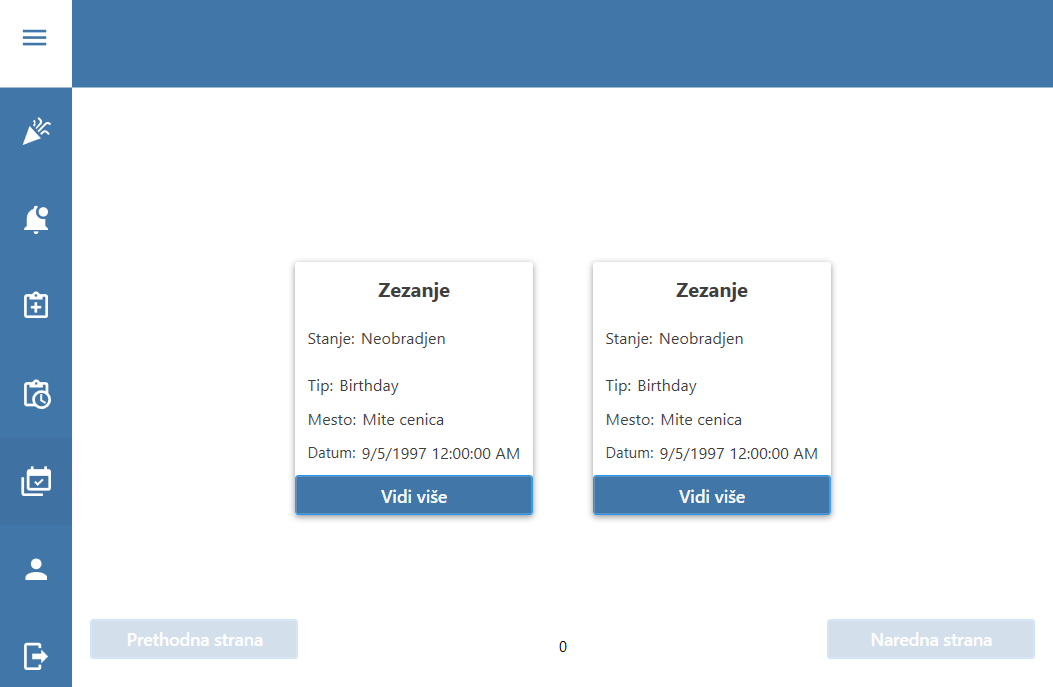
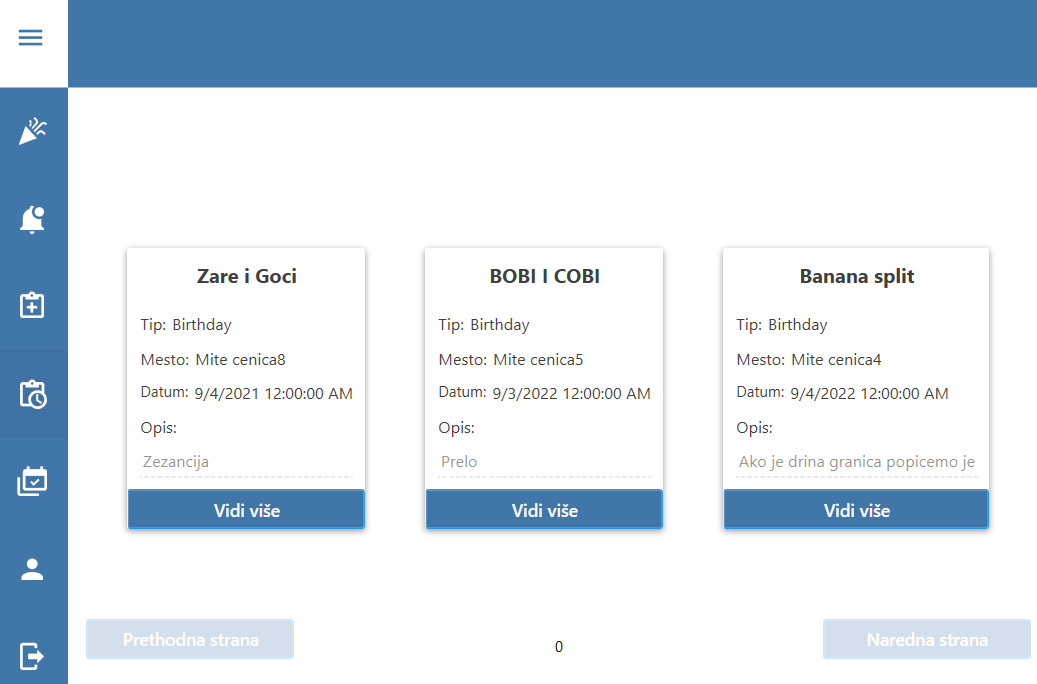
feat: added a few screenshots

diff --git a/ReservationSystem/ReservationSystem/Views/TaskOverview.xaml b/ReservationSystem/ReservationSystem/Views/TaskOverview.xaml
@@ -21,12 +21,11 @@
         </Grid.RowDefinitions>
 
         <Button Content="Nazad"  Command="{Binding RequestViewCommand}"   Height="Auto" Margin="10" HorizontalAlignment="Left"/>
-        <StackPanel Grid.Row="1" Orientation="Horizontal" HorizontalAlignment="Center">
+        <StackPanel Grid.Row="1" Orientation="Horizontal" HorizontalAlignment="Left">
             
-            <Label Content="Naziv:" Margin="0,0,0,0.4" Width="72"></Label>
-            <Label Content="{Binding OrganizierTask.Name}" Margin="0,0,0,0.4" Width="141"></Label>
-            <Label Content="Status:" Margin="0,0,0,0.4" Width="97"></Label>
-            <Label Content="{Binding OrganizierTask.IsDone}" Height="26" VerticalAlignment="Top" Width="66"/>
+            <Label Content="Naziv:" Margin="100,0,0,0.4" Width="72"></Label>
+            <Label Content="{Binding OrganizierTask.Name}" Margin="100,0,0,0.4" Width="141"></Label>
+            
         </StackPanel>
         <Label Grid.Row="2" Margin="100,10,0,0" Content="Opis zadatka:" />
         <TextBlock Grid.Row="3" Background="LightGray" Width="600" Height="40" Text="{Binding OrganizierTask.Description}"></TextBlock>

diff --git a/ReservationSystem/ReservationSystem/Views/RegistrationWindow.xaml b/ReservationSystem/ReservationSystem/Views/RegistrationWindow.xaml
@@ -13,12 +13,13 @@
             <ColumnDefinition/>
         </Grid.ColumnDefinitions>
         <Grid.RowDefinitions>
-            <RowDefinition />
+            <RowDefinition Height="Auto"/>
             <RowDefinition Height="Auto"/>
             <RowDefinition Height="Auto"/>
             
         </Grid.RowDefinitions>
 
+        <Button Content="Nazad"  Grid.Row="0"   Command="{Binding BackCommand}" Height="Auto" Margin="10" HorizontalAlignment="Left"/>
         <StackPanel Grid.Row="1" Grid.Column="0" >
             <Label  Content="Korisnicko ime:"/>
             <TextBox  Text="{Binding Username}" Height="30" Margin="10"/>
@@ -34,7 +35,7 @@
             <Label  Content="Prezime:"/>
             <TextBox  Text="{Binding Surname}" Height="30" Margin="10"/>
             <Label  Content="Datum rodjenja:"/>
-            <DatePicker SelectedDateFormat="Long" SelectedDate="{Binding BirthDate}"
+            <DatePicker SelectedDateFormat="Long" SelectedDate="{Binding BirthDate}" Margin="10"
                   
                   FirstDayOfWeek="Monday" />
         </StackPanel>

diff --git a/ReservationSystem/ReservationSystem/Views/OfferReviewPage.xaml b/ReservationSystem/ReservationSystem/Views/OfferReviewPage.xaml
@@ -9,7 +9,7 @@
     <Grid>
         <Grid.ColumnDefinitions>
             <ColumnDefinition/>
-            <ColumnDefinition/>
+            
         </Grid.ColumnDefinitions>
         <Grid.RowDefinitions>
             <RowDefinition  Height="Auto"/>
@@ -25,6 +25,6 @@
             <Label Margin="3" Width="110" Height="30" Content="Opis ponude: "/>
             <TextBox  Height="100"  Width="200" Margin="0" Text="{Binding Offer.Description}" IsReadOnly="True"/>
         </StackPanel>
-        <Image  Grid.Column="1" Grid.Row="1" Height="150" Width="150"/>
+        
     </Grid>
 </UserControl>

diff --git a/ReservationSystem/ReservationSystem/Views/RequestOverview.xaml b/ReservationSystem/ReservationSystem/Views/RequestOverview.xaml
@@ -52,7 +52,7 @@
                                 Content="{Binding Comment}" 
                                >
                             </Button>
-                            <Label Content="{Binding Answered}"></Label>
+                            
                         </StackPanel>
                         
                     </DataTemplate>

diff --git a/ReservationSystem/ReservationSystem/Seeders/UserSeeder.cs b/ReservationSystem/ReservationSystem/Seeders/UserSeeder.cs
@@ -93,19 +93,19 @@ namespace ReservationSystem.Seeders
                 db.PartyTypes.Add(partyType2);
                 db.PartyTypes.Add(partyType3);
 
-                PartyRequest pr = new PartyRequest(partyType1, 500, "Mite cenica", new DateTime(2022, 9, 5), 1999, false, "Lepak1", "Duvanje", RequestState.Accepted, 1);
-                PartyRequest pr1 = new PartyRequest(partyType1, 550, "Mite cenica", new DateTime(1997, 9, 5), 1999, false, "Zezanje", "Duvanje", RequestState.Active, 1);
+                PartyRequest pr = new PartyRequest(partyType1, 500, "Mite cenica1", new DateTime(2022, 9, 5), 1999, false, "Plesanje", "Kuvanje", RequestState.Accepted, 1);
+                PartyRequest pr1 = new PartyRequest(partyType1, 550, "Mite cenica2", new DateTime(2021, 9, 5), 1999, false, "Zezanje", "White Party", RequestState.Active, 1);
                 pr1.OrganiserId = 3;
-                PartyRequest pr2 = new PartyRequest(partyType1, 550, "Mite cenica", new DateTime(1997, 9, 5), 1999, false, "Kanada", "Duvanje", RequestState.Accepted, 1);
+                PartyRequest pr2 = new PartyRequest(partyType1, 550, "Mite cenica3", new DateTime(2020, 9, 5), 1999, false, "Kanada", "Narodnjaci", RequestState.Accepted, 1);
                 
-                PartyRequest pr3 = new PartyRequest(partyType1, 550, "Mite cenica", new DateTime(1997, 9, 5), 1999, false, "Banana split", "Duvanje", RequestState.Pending, 1);
-                PartyRequest pr4 = new PartyRequest(partyType1, 550, "Mite cenica", new DateTime(2022, 9, 5), 1999, false, "BOBI I COBI", "Duvanje", RequestState.Pending, 1);
-                PartyRequest pr5 = new PartyRequest(partyType1, 550, "Mite cenica", new DateTime(2022, 9, 5), 1999, false, "Tekela", "Duvanje", RequestState.Accepted, 1);
-                PartyRequest pr6 = new PartyRequest(partyType1, 550, "Mite cenica", new DateTime(2022, 9, 5), 1999, false, "Pakle", "Duvanje", RequestState.Rejected, 1);
-                PartyRequest pr7 = new PartyRequest(partyType1, 550, "Mite cenica", new DateTime(1997, 9, 5), 1999, false, "Lepak1", "Duvanje", RequestState.Pending, 1);
-                PartyRequest pr8 = new PartyRequest(partyType2, 600, "Mite cenica", new DateTime(1997, 9, 5), 1999, false, "Lepak2", "Duvanje", RequestState.Accepted, 1);
-                PartyRequest pr9 = new PartyRequest(partyType3, 700, "Mite cenica", new DateTime(1997, 9, 5), 1999, false, "Lepak3", "Duvanje", RequestState.Active, 1);
-                PartyRequest pr10 = new PartyRequest(partyType3, 700, "Mite cenica", new DateTime(1997, 9, 5), 1999, false, "Lepak4", "Duvanje", RequestState.Rejected, 1);
+                PartyRequest pr3 = new PartyRequest(partyType1, 550, "Mite cenica4", new DateTime(2022, 9, 4), 1999, false, "Banana split", "Ako je drina granica popicemo je", RequestState.Pending, 1);
+                PartyRequest pr4 = new PartyRequest(partyType1, 550, "Mite cenica5", new DateTime(2022, 9, 3), 1999, false, "BOBI I COBI", "Prelo", RequestState.Pending, 1);
+                PartyRequest pr5 = new PartyRequest(partyType1, 550, "Mite cenica6", new DateTime(2022, 9, 5), 1999, false, "Tekela", "Krajiska zurka", RequestState.Accepted, 1);
+                PartyRequest pr6 = new PartyRequest(partyType1, 550, "Mite cenica7", new DateTime(2022, 9, 5), 1999, false, "Pakle", "Duvanje", RequestState.Rejected, 1);
+                PartyRequest pr7 = new PartyRequest(partyType1, 550, "Mite cenica8", new DateTime(2021, 9, 4), 1999, false, "Zare i Goci", "Zezancija", RequestState.Pending, 1);
+                PartyRequest pr8 = new PartyRequest(partyType2, 600, "Mite cenica9", new DateTime(2021, 9, 3), 1999, false, "Bahanalija", "Opsta zurka", RequestState.Accepted, 1);
+                PartyRequest pr9 = new PartyRequest(partyType3, 700, "Mite cenica10", new DateTime(1997, 9, 5), 1999, false, "Gospodsko", "Kosulja party", RequestState.Active, 1);
+                PartyRequest pr10 = new PartyRequest(partyType3, 700, "Mite cenica11", new DateTime(1997, 9, 5), 1999, false, "Dzabana", "Semafor party", RequestState.Rejected, 1);
                 pr2.OrganiserId = 3;
                 pr3.OrganiserId = 3;
                 pr4.OrganiserId = 3;

diff --git a/ReservationSystem/ReservationSystem/Views/UserHomePage.xaml.cs b/ReservationSystem/ReservationSystem/Views/UserHomePage.xaml.cs
@@ -114,9 +114,27 @@ namespace ReservationSystem.Views
                 hm.Topmost = true;
                 hm.ShowDialog();
             }
-            else if (((UserHomePageViewModel)DataContext).SelectedViewModel.GetType() == typeof(RequestOverviewViewModel))
+            else if (((UserHomePageViewModel)DataContext).SelectedViewModel.GetType() == typeof(RequestViewViewModel))
             {
-                HelperModal hm = new HelperModal("/Static/pendingrequestovervirewHelp.jpg", "opsi");
+                HelperModal hm = new HelperModal("/Static/requestViewHelp.png", "opsi");
+                hm.Topmost = true;
+                hm.ShowDialog();
+            }
+            else if (((UserHomePageViewModel)DataContext).SelectedViewModel.GetType() == typeof(NewSuggestionsViewModel))
+            {
+                HelperModal hm = new HelperModal("/Static/suggestionsViewHelp.png", "opsi");
+                hm.Topmost = true;
+                hm.ShowDialog();
+            }
+            else if (((UserHomePageViewModel)DataContext).SelectedViewModel.GetType() == typeof(TaskOverviewViewModel))
+            {
+                HelperModal hm = new HelperModal("/Static/taskOverviewHelp.png", "opsi");
+                hm.Topmost = true;
+                hm.ShowDialog();
+            }
+            else if (((UserHomePageViewModel)DataContext).SelectedViewModel.GetType() == typeof(OfferReviewPageViewModel))
+            {
+                HelperModal hm = new HelperModal("/Static/offerOverviewHelp.png", "opsi");
                 hm.Topmost = true;
                 hm.ShowDialog();
             }

diff --git a/ReservationSystem/ReservationSystem/ViewModels/RegistrationViewModel.cs b/ReservationSystem/ReservationSystem/ViewModels/RegistrationViewModel.cs
@@ -15,7 +15,7 @@ namespace ReservationSystem.ViewModels
         public ICommand UpdateViewCommand { get; set; }
 
         public ICommand RegisterCommand { get; set; }
-
+        public ICommand BackCommand { get; set; }
         public string Username { get; set; }
         public string Password { get; set; }
         public string Name { get; set; }
@@ -28,8 +28,13 @@ namespace ReservationSystem.ViewModels
             UpdateViewCommand = updateViewCommand;
             RegisterCommand = new DelegateCommand(Register);
             BirthDate = DateTime.Today;
+            BackCommand = new DelegateCommand(Login);
         }
 
+        public void Login()
+        {
+            UpdateViewCommand.Execute(new LoginViewModel(UpdateViewCommand));
+        }
         private void Register()
         {
             if (Username == null || Password == null || Name == null || Surname == null || Email == null || BirthDate == null)
